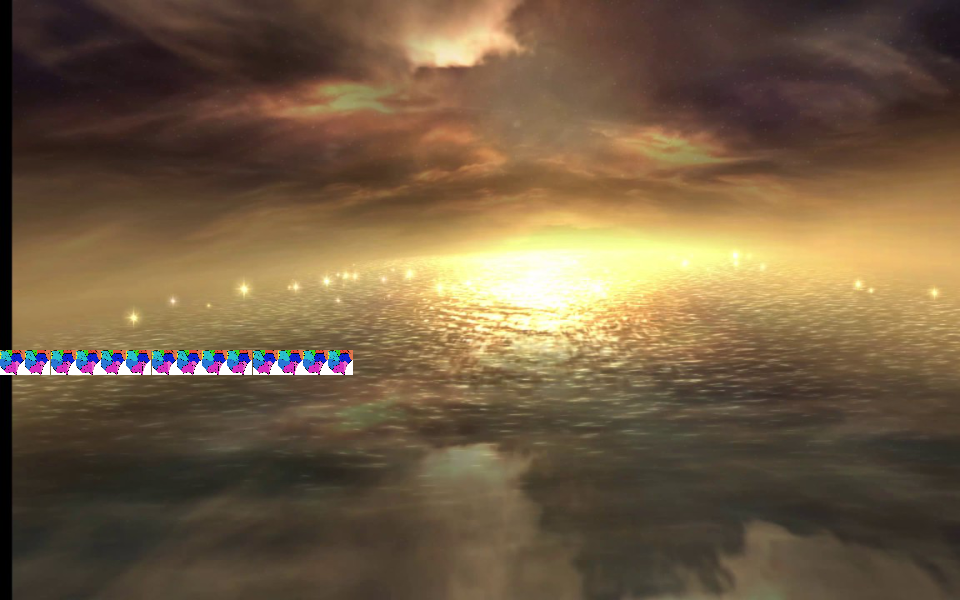
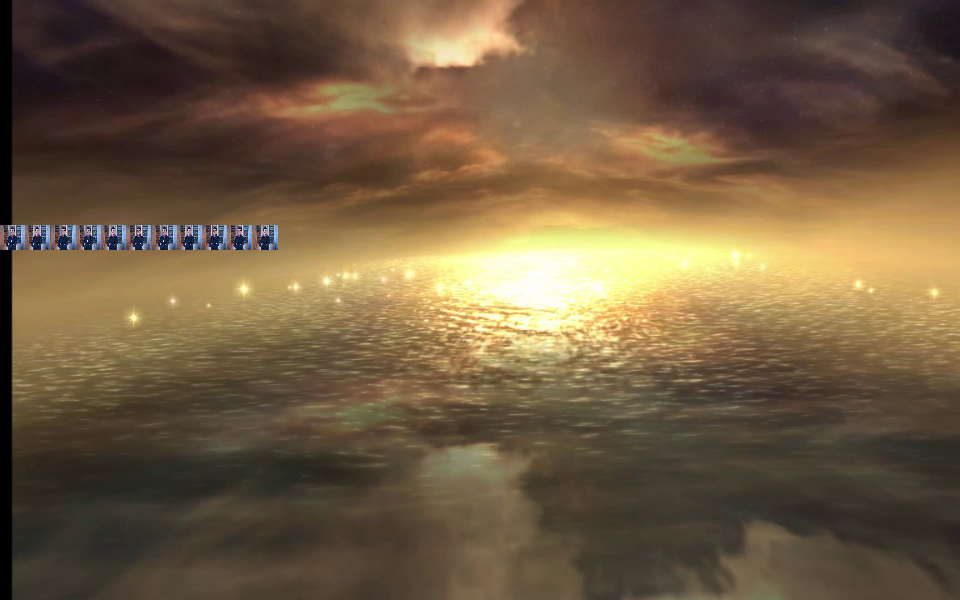
Fixed bug with importing resources

Changed region(s): [[0.0, 0.57, 0.375, 0.63], [0.0, 0.36, 0.3125, 0.42]]

diff --git a/src/main/java/com.yeet.editor/src/editor/interactive/EditorSuper.java b/src/main/java/com.yeet.editor/src/editor/interactive/EditorSuper.java
@@ -1,5 +1,6 @@
 package editor.interactive;
 
+import com.google.common.eventbus.EventBus;
 import editor.EditorConstant;
 import editor.EditorManager;
 import editor.EditorScreen;
@@ -10,6 +11,8 @@ import javafx.scene.Scene;
 import javafx.scene.control.Button;
 import javafx.scene.paint.Color;
 import javafx.scene.text.Text;
+import messenger.external.CreateCopyEvent;
+import messenger.external.EventBusFactory;
 import renderer.external.RenderSystem;
 import xml.XMLParser;
 import xml.XMLSaveBuilder;
@@ -32,6 +35,7 @@ public abstract class EditorSuper extends Scene implements EditorScreen {
     protected EditorConstant myEC;
     protected boolean isSaved;
     protected Text saved;
+    protected EventBus myEB;
 
     public EditorSuper(Group root, EditorManager em, Scene prev){
         super(root);
@@ -44,6 +48,7 @@ public abstract class EditorSuper extends Scene implements EditorScreen {
         root.getChildren().addAll(back, t);
         isSaved = true;
         saved = myRS.makeText("Saved", true, 20, Color.BLACK, 640.0, 60.0);
+        myEB = EventBusFactory.getEventBus();
     }
 
     /**
@@ -127,5 +132,9 @@ public abstract class EditorSuper extends Scene implements EditorScreen {
 
     public Scene getScene(){
         return this;
+    }
+
+    public void importResource(File source, File directory) {
+        myEB.post(new CreateCopyEvent("Copy File", source, directory));
     }
 }

diff --git a/src/main/java/com.yeet.renderer/src/renderer/external/Structures/ScrollablePaneNew.java b/src/main/java/com.yeet.renderer/src/renderer/external/Structures/ScrollablePaneNew.java
@@ -28,7 +28,8 @@ public class ScrollablePaneNew extends Pane {
 
     public ScrollablePaneNew(File dir,double x, double y, double width, double height){
         this(x,y, width, height);
-        loadFiles(dir);
+        loadFiles(dir,".png");
+        loadFiles(dir,".jpg");
     }
 
     public ScrollablePaneNew(double x, double y, double width, double height){
@@ -147,11 +148,11 @@ public class ScrollablePaneNew extends Pane {
 
 
 
-    public void loadFiles(File dir){
+    public void loadFiles(File dir, String extension){
         for(File imgFile : dir.listFiles()) {
-            if(imgFile.toString().endsWith(".png")){
+            if(imgFile.toString().endsWith(extension)){
                 Image itemImage = new Image(imgFile.toURI().toString());
-                String imageName = imgFile.getName().replace(".png","");
+                String imageName = imgFile.getName().replace(extension,"");
                 addItem(itemImage, imageName);
             }
         }

diff --git a/src/main/java/com.yeet.editor/src/editor/interactive/MapEditor.java b/src/main/java/com.yeet.editor/src/editor/interactive/MapEditor.java
@@ -171,11 +171,15 @@ public class MapEditor extends EditorSuper {
             myScrollablePane.addItem(new ScrollItem(currentTileFile, new Text()));
             int size = myScrollablePane.getItems().size();
             myScrollablePane.getItems().get(size-1).getButton().setOnMouseClicked(e->selectTileFromScroll(image, myCurrentTileName));
-            isSaved = false;
-            root.getChildren().remove(saved);
+            updateToUnsaved();
+            File destination = Paths.get(myEM.getGameDirectoryString(),"data","tiles",tileFile.getName()).toFile();
+            System.out.println(tileFile.getPath());
+            System.out.println(destination.getPath());
+            importResource(tileFile, destination);
         }
         catch (Exception e){
             System.out.println("Invalid image");
+            e.printStackTrace();
         }
     }
 

diff --git a/src/main/java/com.yeet.editor/src/editor/home/EditorHome.java b/src/main/java/com.yeet.editor/src/editor/home/EditorHome.java
@@ -63,7 +63,8 @@ public abstract class EditorHome extends Scene implements EditorScreen {
         ScrollablePaneNew scrollPane = new ScrollablePaneNew(200,150, 520, 600);
         for(File file : dir.listFiles()) {
             if(file.isDirectory()) {
-                scrollPane.loadFiles(file);
+                scrollPane.loadFiles(file,".png");
+                scrollPane.loadFiles(file,".jpg");
             }
         }
         switchView = rs.makeStringButton("Switch", Color.BLACK,true, Color.WHITE,20.0,20.0,100.0,100.0,30.0);

diff --git a/src/main/java/com.yeet.data/src/dataSystem/DataSystem.java b/src/main/java/com.yeet.data/src/dataSystem/DataSystem.java
@@ -85,6 +85,10 @@ public class DataSystem {
             System.out.println("Could not create stage file");
         }
     }
+    @Subscribe
+    public void createCopyFile(CreateCopyEvent event) {
+        myFileSystem.copyFile(event.getSource(), event.getDirectory());
+    }
     @Deprecated
     private void overwriteGameFile(File xmlFile) {
         XMLParser parser = new XMLParser(xmlFile);

diff --git a/src/main/java/com.yeet.editor/src/editor/interactive/CharacterEditor.java b/src/main/java/com.yeet.editor/src/editor/interactive/CharacterEditor.java
@@ -96,6 +96,7 @@ public class CharacterEditor extends EditorSuper {
         makeSliders();
         makeButtons();
         initializeSpritePane();
+        saved = myRS.makeText("Saved", true, 20, Color.BLACK, 25.0, 225.0);
     }
     public CharacterEditor(EditorManager em, InputEditor editor, Scene prev, File characterDirectory, boolean isEdit) {
         this(em, editor, prev);

diff --git a/src/main/java/com.yeet.messenger/src/messenger/external/CreateCopyEvent.java b/src/main/java/com.yeet.messenger/src/messenger/external/CreateCopyEvent.java
@@ -1,0 +1,15 @@
+package messenger.external;
+
+import java.io.File;
+
+public class CreateCopyEvent extends CreateDirectoryEvent {
+    private File mySource;
+    public CreateCopyEvent(String name, File source, File destination) {
+        super(name, destination);
+        mySource = source;
+    }
+
+    public File getSource() {
+        return mySource;
+    }
+}
